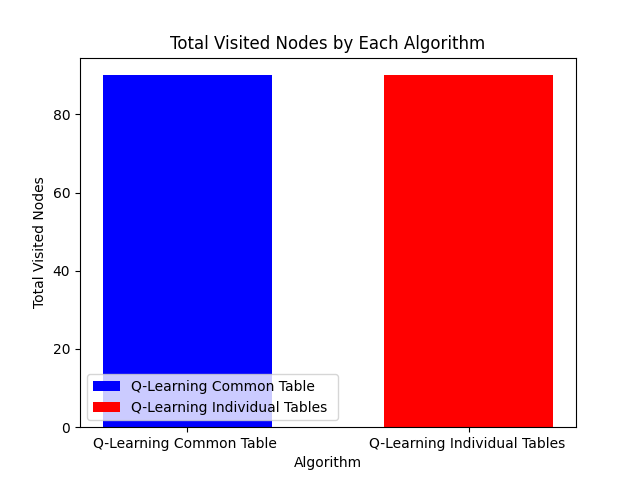
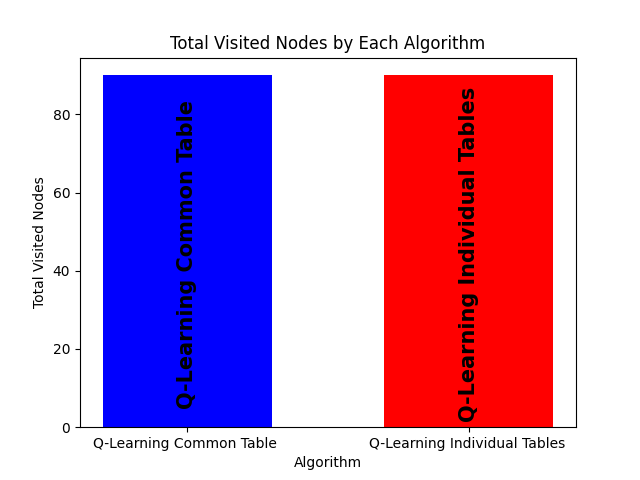
Fix Plots and Add Custom Metric Plot

Changed region(s): [[0.125, 0.2188, 0.5312, 0.9062], [0.7188, 0.1875, 0.75, 0.875]]

diff --git a/plot_graphs_multi_agent.py b/plot_graphs_multi_agent.py
@@ -44,18 +44,21 @@ def plot_graphs_multi_agent(folder_path: str = "multi_q_learning_results") -> No
     plt.figure()
     
     for i, (algorithm_name, color) in enumerate(zip(algorithm_names, colors)):
-        plt.bar(i, algorithms_total_bits_acc[algorithm_name], color=color, label=algorithm_names_plain[i], width= bar_width)
+        # Plot the bar
+        bar_value = algorithms_total_bits_acc[algorithm_name]
+
+        plt.bar(i, bar_value[0], color=color, width=bar_width)
         
+        # Add text within the bar
+        plt.text(i, bar_value[0] / 2, algorithm_names_plain[i], ha='center', va='center', color='black', fontweight='bold', fontsize= 15, rotation=90)
+
+    # Set x-axis labels and other configurations
     plt.xticks(range(len(algorithm_names)), algorithm_names_plain)
-    
     plt.xlabel('Algorithm')
-    
     plt.ylabel('Total Bits Processed')
-    
     plt.title('Total Bits Processed by Each Algorithm')
-    
-    plt.legend( loc='lower left')
-    
+
+    # Save the plot
     plt.savefig(os.path.join(folder_path, 'total_bits.png'))
     
     # Make a bar plot for the expended energy
@@ -69,7 +72,12 @@ def plot_graphs_multi_agent(folder_path: str = "multi_q_learning_results") -> No
     
     
     for i, (algorithm_name, color) in enumerate(zip(algorithm_names, colors)):
-        plt.bar(i, algorithms_expended_energy_acc[algorithm_name], color=color, label=algorithm_names_plain[i], width= bar_width)
+        bar_value = algorithms_expended_energy_acc[algorithm_name]
+
+        plt.bar(i, bar_value[0], color=color, width= bar_width)
+
+        # Add text within the bar
+        plt.text(i, bar_value[0] / 2, algorithm_names_plain[i], ha='center', va='center', color='black', fontweight='bold', fontsize= 15,rotation=90)
         
     plt.xticks(range(len(algorithm_names)), algorithm_names_plain)
     
@@ -78,8 +86,6 @@ def plot_graphs_multi_agent(folder_path: str = "multi_q_learning_results") -> No
     plt.ylabel('Expended Energy')
     
     plt.title('Expended Energy by Each Algorithm')
-    
-    plt.legend( loc='lower left')
     
     plt.savefig(os.path.join(folder_path, 'expended_energy.png'))
     
@@ -93,7 +99,12 @@ def plot_graphs_multi_agent(folder_path: str = "multi_q_learning_results") -> No
     algorithm_names_plain = [name.replace("Total Visited Nodes", "") for name in algorithm_names]
     
     for i, (algorithm_name, color) in enumerate(zip(algorithm_names, colors)):
-        plt.bar(i, algorithms_total_visited_nodes_acc[algorithm_name], color=color, label=algorithm_names_plain[i], width= bar_width)
+        bar_value = algorithms_total_visited_nodes_acc[algorithm_name]
+
+        plt.bar(i, bar_value[0], color=color, width= bar_width)
+
+        # Add text within the bar
+        plt.text(i, bar_value[0] / 2, algorithm_names_plain[i], ha='center', va='center', color='black', fontweight='bold',fontsize= 15,rotation=90)
         
     plt.xticks(range(len(algorithm_names)), algorithm_names_plain)
     
@@ -103,9 +114,37 @@ def plot_graphs_multi_agent(folder_path: str = "multi_q_learning_results") -> No
     
     plt.title('Total Visited Nodes by Each Algorithm')
     
-    plt.legend( loc='lower left')
-    
     plt.savefig(os.path.join(folder_path, 'total_visited_nodes.png'))
+
+    # Plot Custom Metric
+    custom_metric = {}
+
+    algorithm_names = list(algorithms_total_bits_acc.keys())
+    algorithm_names_plain = [name.replace("Total Bits", "") for name in algorithm_names]
+
+    for algorithm_name in algorithm_names_plain:
+        custom_metric[algorithm_name + "Custom Metric"] = (algorithms_total_bits_acc[algorithm_name + "Total Bits"][0]
+                            * algorithms_total_visited_nodes_acc[algorithm_name + "Total Visited Nodes"][0])/ algorithms_expended_energy_acc[algorithm_name + "Energy Level"][0]
+
+    plt.figure()
+
+    for i, (algorithm_name, color) in enumerate(zip(algorithm_names_plain, colors)):
+        bar_value = custom_metric[algorithm_name + "Custom Metric"]
+
+        plt.bar(i, bar_value, color=color, width= bar_width)
+
+        # Add text within the bar
+        plt.text(i, bar_value / 2, algorithm_names_plain[i], ha='center', va='center', color='black', fontweight='bold',fontsize= 15,rotation=90)
+
+    plt.xticks(range(len(algorithm_names)), algorithm_names_plain)
+
+    plt.xlabel('Algorithm')
+
+    plt.ylabel('Custom Metric')
+
+    plt.title('Custom Metric by Each Algorithm')
+
+    plt.savefig(os.path.join(folder_path, 'custom_metric.png'))
     
     
 if __name__ == '__main__':
